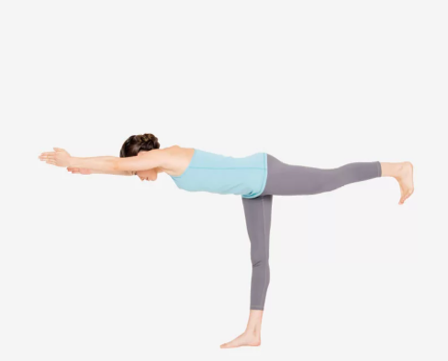
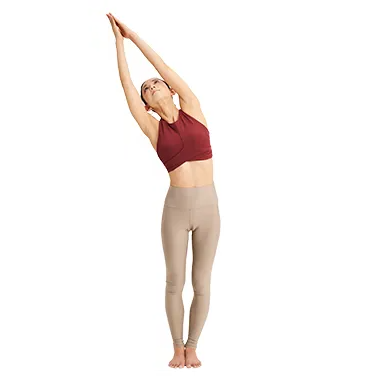
change image

Changed region(s): [[0.0868, 0.0305, 0.9263, 0.9751]]

diff --git a/pages/QuizPage.vue b/pages/QuizPage.vue
@@ -118,7 +118,7 @@ export default{
             error_message: "",
             recognition: "skeleton",
             timer: undefined,
-            PoseNameList :["戦士のポーズⅡ","ダウンドッグ","三日月のポーズ","戦士のポーズⅢ"],
+            PoseNameList :["戦士のポーズⅡ","木のポーズ","月のポーズ(右)","月のポーズ(左)"],
             imageURL:"",
             successImage:"",
         };

diff --git a/components/Selection.vue b/components/Selection.vue
@@ -19,7 +19,7 @@
 <style>
 .pose-img{
     height: 450px;
-    max-width: 450px;
+    width: 450px;
     align-items: center;
 }
 
